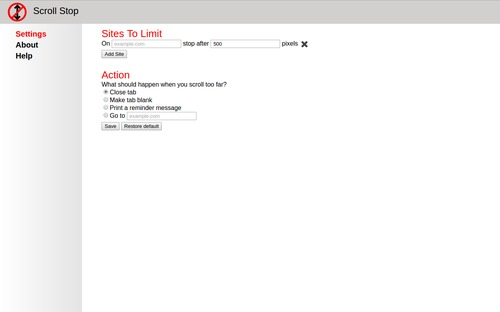
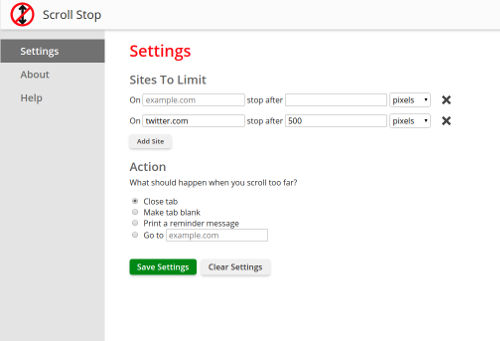
Updated portfolio with Packback and improved order Also removed Lines

diff --git a/portfolio.html b/portfolio.html
@@ -15,8 +15,10 @@ stylesheets:
 	These are a sampling of some of the projects I've worked on.
 </p>
 
+{% assign ordered_projects = site.projects | sort: "order" %}
+
 <div class="projects-container">
-	{% for project in site.projects %}
+	{% for project in ordered_projects %}
 		<div class="projects-tile">
 			<h2 class="title">{{ project.name }} </h2>
 			<div class="sub-title">{{ project.subtitle }} </div>
@@ -24,12 +26,23 @@ stylesheets:
 				<div class="thumb" style="background-image: url({{ project.thumbnail }})"></div>
 			</div>
 			<div class="icons-cont" data-project-id="{{ forloop.index0 }}">
-				<button class="icon-container info-cont" aria-label="{{ project.name }} - Info">
-					<div class="icon info"></div>Info</button>
-				<button class="icon-container images-cont" aria-label="{{ project.name }} - Images">
-					<div class="icon images"></div>Images</button>
-				<button class="icon-container tools-cont" aria-label="{{ project.name }} - Tools">
-					<div class="icon tools"></div>Tools</button>
+				<button class="icon-container info-cont"
+					aria-label="{{ project.name }} - Info">
+					<div class="icon info"></div>
+					Info
+				</button>
+				{% if project.gallery != null %}
+					<button class="icon-container images-cont"
+						aria-label="{{ project.name }} - Images">
+						<div class="icon images"></div>
+						Images
+					</button>
+				{% endif %}
+				<button class="icon-container tools-cont"
+					aria-label="{{ project.name }} - Tools">
+					<div class="icon tools"></div>
+					Tools
+				</button>
 			</div>
 		</div>
 	{% endfor %}
@@ -39,6 +52,6 @@ stylesheets:
 	confuse any JS linting or require front-matter in a .js file -->
 <script>
 	/* jshint ignore:start */
-	var projects = {{ site.projects | jsonify }};
+	var projects = {{ ordered_projects | jsonify }};
 	/* jshint ignore:end */
 </script>

diff --git a/js/portfolio.js b/js/portfolio.js
@@ -91,9 +91,12 @@ function getToolsHTML(tools)
     return toolsHTML;
 }
 
+var noImageTools = [ 'C#', 'Google Charts', 'Angular' ];
+
 function getToolsImage(toolName)
 {
-    if (toolName == 'C#' || toolName == 'Google Charts') { // no images for C# or Google Charts
+    // If this is a tool with no image, return null to show text
+    if (noImageTools.indexOf(toolName) !== -1) {
         return null;
     }
     else {

diff --git a/css/pages/portfolio.scss b/css/pages/portfolio.scss
@@ -117,9 +117,11 @@
 .tool-cont .text { margin-top: 5px; }
 .tool-cont .featured-text
 {
+  display: flex;
+  align-items: center;
+  justify-content: center;
   font-size: 24px;
   height: 110px;
-  padding-top: 22px;
   box-sizing: border-box;
   background-color: white;
   color: #444444;

diff --git a/_projects/scroll-stop.md b/_projects/scroll-stop.md
@@ -1,15 +1,19 @@
 ---
 jsId: scrollStop
 name: Scroll Stop
-subtitle: Boosting Productivity
+order: 2
+
+subtitle: Boosting productivity by reducing distractions
 thumbnail: images/portfolio/thumbs/ScrollStop.jpg
 
 description:
-    Scroll Stop was born from my desire to experiment with creating Google Chrome extension, and seizing the opportunity when a friend proposed the idea for a productivity app that specifically tackled lazy loading social media and content websites by stopping you from scrolling too far. That way if you need to message people on Facebook or other social media platforms, you still can, but it will prevent you from mindlessly scrolling through your newsfeed.
+    Scroll Stop was born from my desire to experiment with creating Google Chrome extension, and seizing the opportunity when a friend proposed the idea for a productivity app that specifically tackled lazy loading social media and content websites by stopping you from scrolling too far. With Scroll Stop, if you need to message people on Facebook or other social media platforms, you still can, but it will prevent you from mindlessly scrolling through feeds.
+
+    Check it out on the <a href="https://chrome.google.com/webstore/detail/scroll-stop/hjaclffbikdneicnleajghmppjdnnohl">Scroll Stop Chrome Extension page</a>.
 
 gallery:
-    - { url: images/projects/ScrollStop (1).png, alt: Scroll stop page with settings }
-    - { url: images/projects/ScrollStop (2).png, alt: indigoBox homepage with Scroll Stop inactive popup }
+    - { url: images/projects/scroll-stop-1.png, alt: Scroll stop page with settings }
+    - { url: images/projects/scroll-stop-2.png, alt: Twitter page with Scroll Stop active, showing it will stop scrolling  }
 tools:
     - jQuery
     - Javascript

diff --git a/_projects/indigobox-website.md b/_projects/indigobox-website.md
@@ -1,11 +1,13 @@
 ---
 jsId: iBWebsite
 name: indigoBox Website
+order: 5
+
 subtitle: Spreading the word
 thumbnail: images/portfolio/thumbs/indigoBoxSite.jpg
 
 description:
-    indigoBox, the software studio I lead, had an old introductory website for a long time, and it took a coordinated effort that I lead amongst our team to launch our new website, which showcases all of our main products as well as all of our members.,
+    indigoBox, the software studio I lead, had an old introductory website for a long time, and it took a coordinated effort that I lead amongst our team to launch our new website, which showcases all of our main products as well as all of our members.
 
 gallery:
     - { url: images/projects/indigoBoxSite (1).png, alt: indigoBox homepage screenshot }

diff --git a/_projects/carpe.md b/_projects/carpe.md
@@ -1,12 +1,13 @@
 ---
 jsId: carpe
 name: Carpe
-
-description:
-    Carpe is an online schduler designed to make organizing easier and more socially connected. With Carpe, you can follow people to see and track their schedules, so you'll stay up to date. Planning everything from lunch-time hangouts to business meetings is now faster and pain-free.
+order: 4
 
 subtitle: Scheduling made social
 thumbnail: images/portfolio/thumbs/carpe.jpg
+
+description:
+    Carpe is an online schduler designed to make organizing easier and more socially connected. With Carpe, you can follow people to see and track their schedules, so you'll stay up to date. Planning everything from lunch-time hangouts to business meetings is now faster and pain-free.
 
 tools:
     - Ruby on Rails

diff --git a/_projects/packback.md b/_projects/packback.md
@@ -1,0 +1,17 @@
+---
+jsId: packback
+name: Packback
+order: 0
+
+subtitle: Advancing an accessible discussion platform
+thumbnail: images/portfolio/thumbs/packback.jpg
+
+description:
+    In my work at Packback, I have developed features large and small, worked
+    with auditors to validate and improve our site's accessibility.
+
+tools:
+    - Angular
+    - HTML5
+    - CSS3
+---

diff --git a/_projects/transportation-collective.md b/_projects/transportation-collective.md
@@ -1,6 +1,8 @@
 ---
 jsId: transportCollective
 name: The Transportation Collective
+order: 6
+
 subtitle: Big data for CTA customers
 thumbnail: images/portfolio/thumbs/TransCo.jpg
 

diff --git a/_projects/apollo.md b/_projects/apollo.md
@@ -1,6 +1,8 @@
 ---
 jsId: apollo
 name: Apollo
+order: 3
+
 subtitle: Learning more about music
 thumbnail: images/portfolio/thumbs/Apollo.jpg
 
